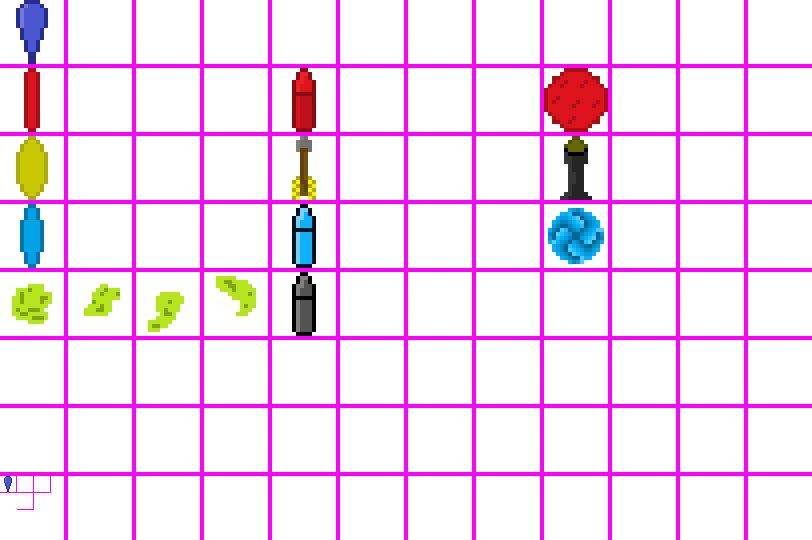
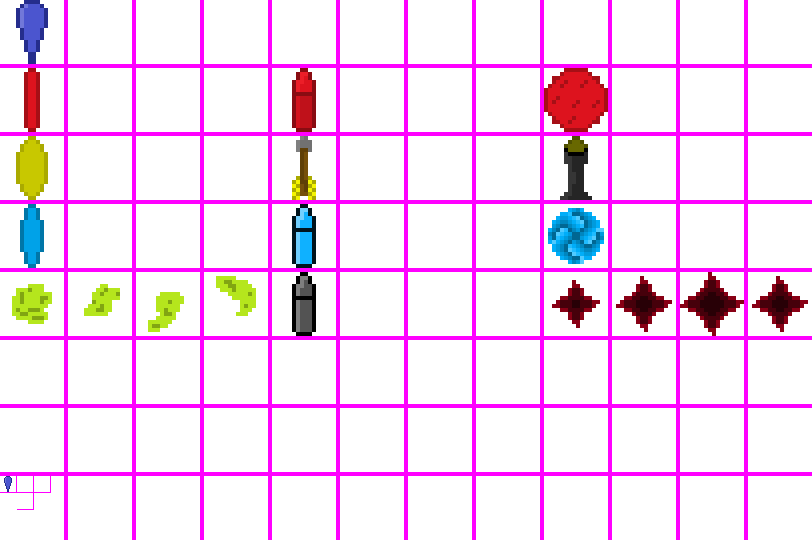
ghost and skeleton monsters

Changed region(s): [[0.7697, 0.5037, 1.0, 0.6222], [0.6773, 0.5333, 0.7389, 0.5926]]

diff --git a/app/src/canvasManager/stagePainter.js b/app/src/canvasManager/stagePainter.js
@@ -3,8 +3,8 @@ const StagePainter = {
 
     _stagePainterInterval: null,
 
-    displayHeightInUnits: 18,
-    displayWidthInUnits: 32,
+    displayHeightInUnits: 16,
+    displayWidthInUnits: 26,
 
     unit: 0,
 
@@ -118,10 +118,10 @@ const StagePainter = {
             if(x  > -1 && y > -1 && x < this.displayWidthInUnits + 1 && y < this.displayHeightInUnits + 1){
                 // rotating item image
                 CanvasManager.paintRotatedImageAt(ImageLoader.items, e.tileX, e.tileY, c.unit,
-                    x, y, c.vOffset, c.hOffset, e.direction, e.displaySize);
+                    x, y, c.vOffset, c.hOffset, e.direction, e.displaySize, e.opacity);
                 // item sphere
                 CanvasManager.paintImageAt(ImageLoader.misc, 1, 0, c.unit,
-                    x, y, c.vOffset, c.hOffset, e.displaySize + 0.6, 0.3);
+                    x, y, c.vOffset, c.hOffset, e.displaySize + 0.4, 0.3);
             } 
         });
     },
@@ -129,27 +129,27 @@ const StagePainter = {
     drawMonsters(c){
         StageManager.currentStage.monsters.filter(e => {return !e.expired}).forEach(e => {
             CanvasManager.paintRotatedImageAt(ImageLoader.monsters, e.tileX, e.tileY, c.unit,
-                (e.x - c.xMin), (e.y - c.yMin), c.vOffset, c.hOffset, e.direction, e.displaySize);
+                (e.x - c.xMin), (e.y - c.yMin), c.vOffset, c.hOffset, e.direction, e.displaySize, e.opacity);
         });
     },
 
     drawPlayer(c){
         var p = StageManager.currentStage.player;
         CanvasManager.paintRotatedImageAt(ImageLoader.player, p.tileX, p.tileY, c.unit,
-            (p.x - c.xMin), (p.y - c.yMin), c.vOffset, c.hOffset, p.direction, p.displaySize);
+            (p.x - c.xMin), (p.y - c.yMin), c.vOffset, c.hOffset, p.direction, p.displaySize, p.opacity);
     },
 
     drawProjectiles(c){
         StageManager.currentStage.projectiles.filter(e => {return !e.expired}).forEach(e => {
             CanvasManager.paintRotatedImageAt(ImageLoader.projectiles, e.tileX, e.tileY, c.unit,
-                (e.x - c.xMin), (e.y - c.yMin), c.vOffset, c.hOffset, e.direction, e.displaySize);
+                (e.x - c.xMin), (e.y - c.yMin), c.vOffset, c.hOffset, e.direction, e.displaySize, e.opacity);
         });
     },
 
     drawParticles(c){
         StageManager.currentStage.particles.filter(e => {return !e.expired}).forEach(e => {
             CanvasManager.paintRotatedImageAt(ImageLoader.particles, e.tileX, e.tileY, c.unit,
-                (e.x - c.xMin), (e.y - c.yMin), c.vOffset, c.hOffset, e.direction, e.displaySize);
+                (e.x - c.xMin), (e.y - c.yMin), c.vOffset, c.hOffset, e.direction, e.displaySize, e.opacity);
         });
     },
 

diff --git a/app/index.html b/app/index.html
@@ -66,6 +66,8 @@
 	<script src="src/gameplay/entities/projectiles/weapon10B3Projectile.js"></script>
 	<script src="src/gameplay/entities/projectiles/monsterProjectiles/zombieBileProjecile.js"></script>
 	<script src="src/gameplay/entities/projectiles/monsterProjectiles/droneBulletProjectile.js"></script>
+	<script src="src/gameplay/entities/projectiles/monsterProjectiles/ghostDrainProjectile.js"></script>
+	<script src="src/gameplay/entities/projectiles/monsterProjectiles/skeletonRocketProjectile.js"></script>
 	<script src="src/gameplay/entities/projectiles/projectileSpawner.js"></script>
 	<script src="src/gameplay/entities/particles/_particle.js"></script>
 	<script src="src/gameplay/entities/particles/bloodParticle.js"></script>
@@ -78,6 +80,8 @@
 	<script src="src/gameplay/entities/monsters/_monster.js"></script>
 	<script src="src/gameplay/entities/monsters/zombie.js"></script>
 	<script src="src/gameplay/entities/monsters/drone.js"></script>
+	<script src="src/gameplay/entities/monsters/ghost.js"></script>
+	<script src="src/gameplay/entities/monsters/skeleton.js"></script>
 	<script src="src/gameplay/entities/monsters/monsterFactory.js"></script>
 	<script src="src/gameplay/entities/items/_item.js"></script>
 	<script src="src/gameplay/entities/items/healthKit.js"></script>
@@ -100,6 +104,8 @@
 	<script src="src/gameplay/actions/weaponActions/weaponAction10B3.js"></script>
 	<script src="src/gameplay/actions/monsterActions/zombieBileAttack.js"></script>
 	<script src="src/gameplay/actions/monsterActions/droneBulletAttack.js"></script>
+	<script src="src/gameplay/actions/monsterActions/ghostDrainAttack.js"></script>
+	<script src="src/gameplay/actions/monsterActions/skeletonRocketAttack.js"></script>
 	<!-- 	stages 		-->
 	<script src="src/gameplay/stage/stageLoader.js"></script>
 	<script src="src/gameplay/stage/stage.js"></script>

diff --git a/app/src/gameplay/entities/monsters/skeleton.js b/app/src/gameplay/entities/monsters/skeleton.js
@@ -1,15 +1,15 @@
 "use strict";
-class Drone extends _Monster {
+class Skeleton extends _Monster {
 
     constructor(){
         super();
         this.tileX = Util.randInt(0, 3);
-        this.tileY = 1;
-        this.maxHp = Util.randInt(25, 30);
-        this.displaySize = Util.randFloat(1.1, 1.3);
-        this.defence = 20;
-        this.speed = Util.randFloat(0.026, 0.030);
-        this.bulletAttack = new DroneBulletAttack(this);
+        this.tileY = 3;
+        this.maxHp = Util.randInt(32, 40);
+        this.displaySize = Util.randFloat(1.4, 1.6);
+        this.defence = 15;
+        this.speed = Util.randFloat(0.018, 0.020);
+        this.rocketAttack = new SkeletonRocketAttack(this);
     }
 
     _onDamaged(d){
@@ -19,7 +19,7 @@ class Drone extends _Monster {
 
     _onExpire(){
         super._onExpire();
-        ParticleSpawner.createExplosion(ScrapParticle, this.x, this.y, Util.randInt(10, 30));
+        ParticleSpawner.createExplosion(ScrapParticle, this.x, this.y, Util.randInt(20, 40));
     }
 
     _doExist(thisEntity){
@@ -27,7 +27,7 @@ class Drone extends _Monster {
         var dir = thisEntity.getDirectionToPoint(p.x, p.y);
         var dist = thisEntity.getDistanceToPoint(p.x, p.y);
         if(dist < 8) {
-            thisEntity.bulletAttack.execute();
+            thisEntity.rocketAttack.execute();
         }
         if(dist > 3) {
             thisEntity.travel(dir);

diff --git a/app/src/gameplay/entities/monsters/ghost.js b/app/src/gameplay/entities/monsters/ghost.js
@@ -1,15 +1,16 @@
 "use strict";
-class Zombie extends _Monster {
+class Ghost extends _Monster {
 
     constructor(){
         super();
-        this.tileX = Util.randInt(0, 7);
-        this.tileY = 0;
-        this.maxHp = Util.randInt(20, 25);
-        this.displaySize = Util.randFloat(0.9, 1.1);
-        this.defence = 0;
-        this.speed = Util.randFloat(0.022, 0.028);
-        this.bileAttack = new ZombieBileAttack(this);
+        this.tileX = Util.randInt(0, 3);
+        this.tileY = 2;
+        this.maxHp = Util.randInt(15, 20);
+        this.displaySize = Util.randFloat(0.8, 1.0);
+        this.defence = 35;
+        this.speed = 0.04;
+        this.opacity = 0.6;
+        this.drainAttack = new GhostDrainAttack(this);
     }
 
     _onDamaged(d){
@@ -27,14 +28,13 @@ class Zombie extends _Monster {
         var p = StageManager.currentStage.player;
         var dir = thisEntity.getDirectionToPoint(p.x, p.y);
         var dist = thisEntity.getDistanceToPoint(p.x, p.y);
-        if(dist < 3) {
-            thisEntity.bileAttack.execute();
+        if(dist < 5) {
+            thisEntity.drainAttack.execute();
         }
         if(dist > 0.75) {
             thisEntity.travel(dir);
         }
         thisEntity.turn(dir);
-        thisEntity.checkForInWall();
     }
 
 }

diff --git a/app/src/gameplay/entities/projectiles/monsterProjectiles/ghostDrainProjectile.js b/app/src/gameplay/entities/projectiles/monsterProjectiles/ghostDrainProjectile.js
@@ -1,0 +1,46 @@
+"use strict";
+class GhostDrainProjectile extends _DamagingProjectile {
+
+    constructor(parentEntity, direction, x, y){
+        super(parentEntity, direction, x, y);
+
+        this.speed = 0.11;
+        this.minDmg = 5;
+        this.maxDmg = 10;
+        this.duration = Util.randInt(60, 90);
+        this.accuracy = 99;
+        
+        this.tileX = Util.randInt(8, 11);
+        this.tileY = 4;
+        
+        this.collisionSize = 0.2;
+        this.displaySize = 0.5;
+        this.collidesPlayer = true;
+
+        this.animationTimer = 0;
+    }
+
+    animate(){
+        this.rotate(6);
+
+        // TODO delegate this
+        if(this.animationTimer == 5){
+            this.animationTimer = 0;
+            this.tileX ++;
+            if(this.tileX == 11){
+                this.tileX = 8;
+            }
+        } 
+        this.animationTimer ++;
+    }
+
+    _onExpire(){
+        super._onExpire();
+        ParticleSpawner.createExplosion(YellowSparkParticle,  this.x, this.y, Util.randInt(2, 5));
+    }
+
+    _onCollisionWithPlayer(p){
+        super._onCollisionWithPlayer(p);
+        this.parentEntity.healDmg(Util.randInt(3, 6))
+    }
+}

diff --git a/app/src/gameplay/entities/monsters/monsterFactory.js b/app/src/gameplay/entities/monsters/monsterFactory.js
@@ -4,6 +4,8 @@ const MonsterFactory = {
     _monsterTypeDict : {
         0 : Zombie,
         1 : Drone,
+        2 : Ghost,
+        3 : Skeleton,
 
         default : Zombie
     },
@@ -14,15 +16,15 @@ const MonsterFactory = {
      * @param {number} y - monster y position
      */
     getMonster(id, x, y){
+        id = Util.randInt(0, 3);
         var monsterClass = this._monsterTypeDict[id] ? this._monsterTypeDict[id] : this._monsterTypeDict.default;
         var monster = new monsterClass();
         if(x && y){
             monster.x = x;
             monster.y = y;   
         }
-        monster.hp *= Util.randFloat(0.8, 1.2);
-        monster.speed *= Util.randFloat(0.9, 1.1);
-        monster.displaySize *= Util.randFloat(0.9, 1.1);
+        monster.hp = monster.maxHp;
+        monster.collisionSize = 0.95 * monster.displaySize;
         return monster;
     }
 

diff --git a/app/src/gameplay/entities/projectiles/monsterProjectiles/skeletonRocketProjectile.js b/app/src/gameplay/entities/projectiles/monsterProjectiles/skeletonRocketProjectile.js
@@ -1,0 +1,30 @@
+"use strict";
+class SkeletonRocketProjectile extends _DamagingProjectile {
+
+    constructor(parentEntity, direction, x, y){
+        super(parentEntity, direction, x, y);
+
+        this.speed = 0.14
+        this.minDmg = 8;
+        this.maxDmg = 12;
+        this.duration = Util.randInt(60, 80);
+        this.accuracy = 95;
+    
+        this.tileX = 4;
+        this.tileY = 4;
+        
+        this.collisionSize = 0.15;
+        this.displaySize = 0.5;
+        this.collidesPlayer = true;
+    }
+
+    animate(){
+        ParticleSpawner.createExplosion(RocketSmokeParticle, this.x, this.y, 1);
+    }
+
+    _onExpire(){
+        super._onExpire();
+        ParticleSpawner.createExplosion(RedSparkParticle,  this.x, this.y, Util.randInt(2, 5));
+    }
+
+}

diff --git a/app/src/gameplay/entities/_damageable.js b/app/src/gameplay/entities/_damageable.js
@@ -19,19 +19,18 @@ class _Damageable extends _Entity{
     // ==================== methods ====================
     // damage and death
     takeDmg(d){
-        this.hp -= d * (100 - this.defence)/100;
+        var trueDmg = d * (100 - this.defence)/100;
+        this.hp -= trueDmg;
         if(this.hp <= 0){
             this.expire();
         }
-        this._onDamaged(d);
+        this._onDamaged(trueDmg);
     }
 
     healDmg(h){
-        this.hp += h;
-        if(this.hp > this.maxHp){
-            this.hp = this.maxHp;
-        }
-        this._onHealed(h);
+        var trueHealing = this.maxHp - this.hp > h ? h : this.maxHp - this.hp;
+        this.hp += trueHealing;
+        this._onHealed(trueHealing);
     }
 
     // "on" triggers

diff --git a/app/src/gameplay/entities/_entity.js b/app/src/gameplay/entities/_entity.js
@@ -21,6 +21,7 @@ class _Entity {
     collidesItem;           // - states if the entity checks for collision with an item
     tileX;                  // - x position in tileset (can be changed through animations)
     tileY;                  // - y position in tileset (can be changed through animations)
+    opacity;                // opacity with which the antity is drawn on canvas
 
     lifecycleInterval;      // - entity's lifecycle interval reference
 
@@ -47,6 +48,7 @@ class _Entity {
         this.collidesItem = false;
         this.tileX = 0;
         this.tileY = 0;
+        this.opacity = 1;
     }
 
     // ==================== methods ====================

diff --git a/app/src/gameplay/actions/monsterActions/ghostDrainAttack.js b/app/src/gameplay/actions/monsterActions/ghostDrainAttack.js
@@ -1,0 +1,21 @@
+"use strict";
+class GhostDrainAttack extends _Action {
+
+    constructor(user){
+        super(user);
+        this.cooldownDuration = 2500;
+    }
+
+    onSuccess(){
+        this.doOnDelay(a => {
+            ProjectileSpawner.spawn(GhostDrainProjectile, a.user, a.user.x, a.user.y, a.user.direction);
+        }, 50);
+        this.doOnDelay(a => {
+            ProjectileSpawner.spawn(GhostDrainProjectile, a.user, a.user.x, a.user.y, a.user.direction + 15);
+        }, 200);
+        this.doOnDelay(a => {
+            ProjectileSpawner.spawn(GhostDrainProjectile, a.user, a.user.x, a.user.y, a.user.direction - 15);
+        }, 200);
+    }
+
+}

diff --git a/app/src/gameplay/entities/projectiles/weapon7Y3Projectile.js b/app/src/gameplay/entities/projectiles/weapon7Y3Projectile.js
@@ -6,7 +6,7 @@ class Weapon7Y3Projectile extends _DamagingProjectile {
         // super constructor
         super(parentEntity, direction, x, y);
 
-        this.speed = 0.12;
+        this.speed = 0.15;
         this.minDmg = 20;
         this.maxDmg = 30;
         this.duration = 100;
@@ -26,7 +26,7 @@ class Weapon7Y3Projectile extends _DamagingProjectile {
 
     _onExpire(){
         super._onExpire();
-        ParticleSpawner.createExplosion(YellowSparkParticle,  this.x, this.y, Util.randInt(200, 300));
+        ParticleSpawner.createExplosion(YellowSparkParticle,  this.x, this.y, Util.randInt(100, 200));
     }
 
 }

diff --git a/app/src/gameplay/entities/particles/smokeParticle.js b/app/src/gameplay/entities/particles/smokeParticle.js
@@ -5,9 +5,10 @@ class RocketSmokeParticle extends _Particle {
         super(Util.randInt(1, 360), x, y);
         this.duration = 30;
         this.displaySize = Util.randFloat(0.4, 0.7);
-        this.speed = 0;
+        this.speed = Util.randFloat(0.01, 0.02);
         this.tileX = Util.randInt(0, 11);
         this.tileY = 5
+        this.opacity = 0.3;
     }
 
     animate(){
